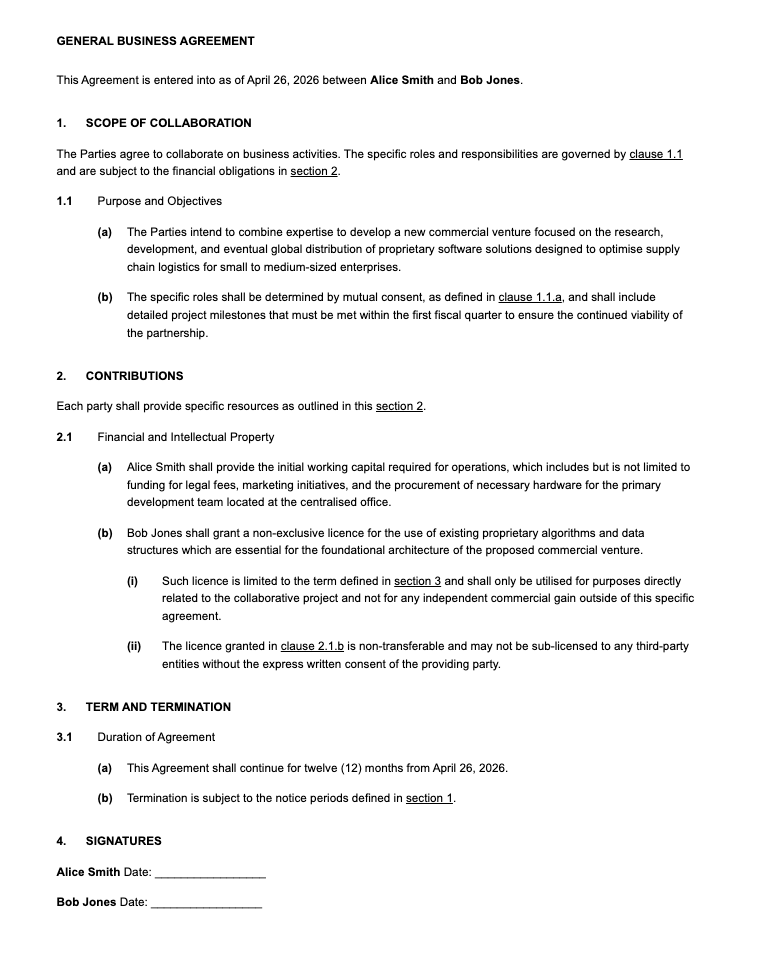
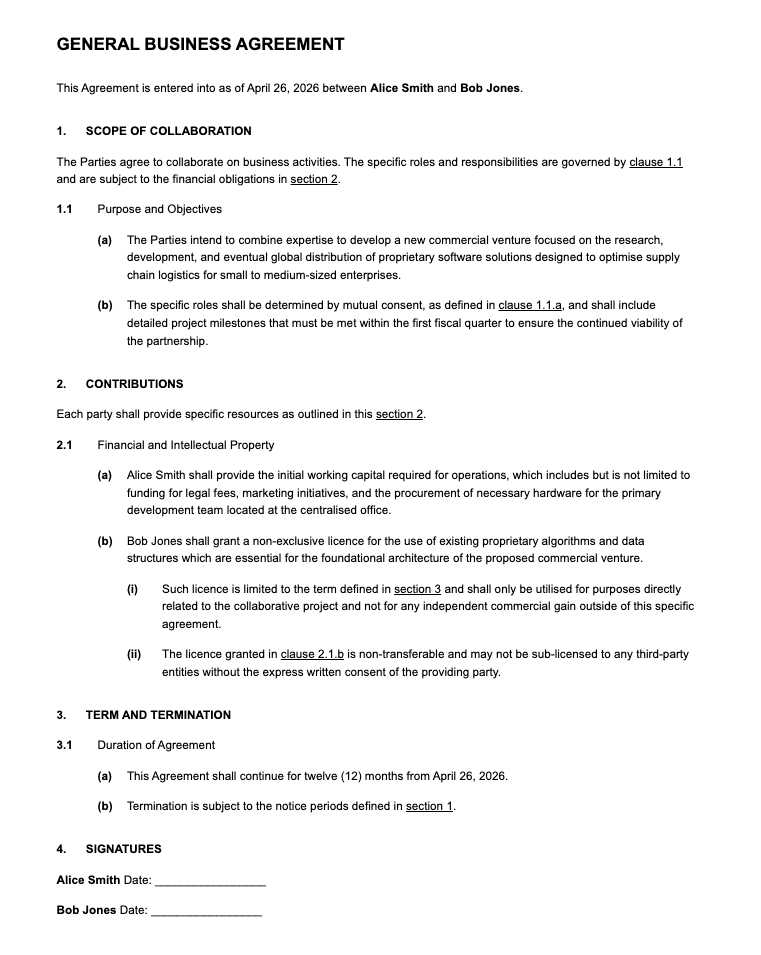
Increased font size of title

Changed region(s): [[0.0604, 0.0304, 0.9067, 0.9717], [0.0604, 0.7288, 0.0907, 0.7895], [0.1511, 0.6681, 0.1813, 0.6984]]

diff --git a/agreement.html b/agreement.html
@@ -53,7 +53,11 @@ text-transform: uppercase;
 }
 h1 { margin-top: 24pt; margin-bottom: 8pt; margin-left: 0; padding-left: 2.5em; }
 h2 { margin-left: 0; padding-left: 3.5em; }
-h3 { margin-left: 3.5em; padding-left: 2.5em; } h4 { margin-left: 6.0em; padding-left: 3.0em; } h1.title { padding-left: 0; margin-left: 0; }
+h3 { margin-left: 3.5em; padding-left: 2.5em; } h4 { margin-left: 6.0em; padding-left: 3.0em; } h1.title {
+padding-left: 0;
+margin-left: 0;
+font-size: 16pt !important;
+}
 .header-section-number {
 font-weight: bold !important;
 position: absolute;

diff --git a/style.css b/style.css
@@ -34,9 +34,10 @@ h2 { margin-left: 0; padding-left: 3.5em; }
 h3 { margin-left: 3.5em; padding-left: 2.5em; } 
 h4 { margin-left: 6.0em; padding-left: 3.0em; } 
 
-h1.title { 
-    padding-left: 0; 
-    margin-left: 0; 
+h1.title {
+    padding-left: 0;
+    margin-left: 0;
+    font-size: 16pt !important;
 }
 
 .header-section-number {
